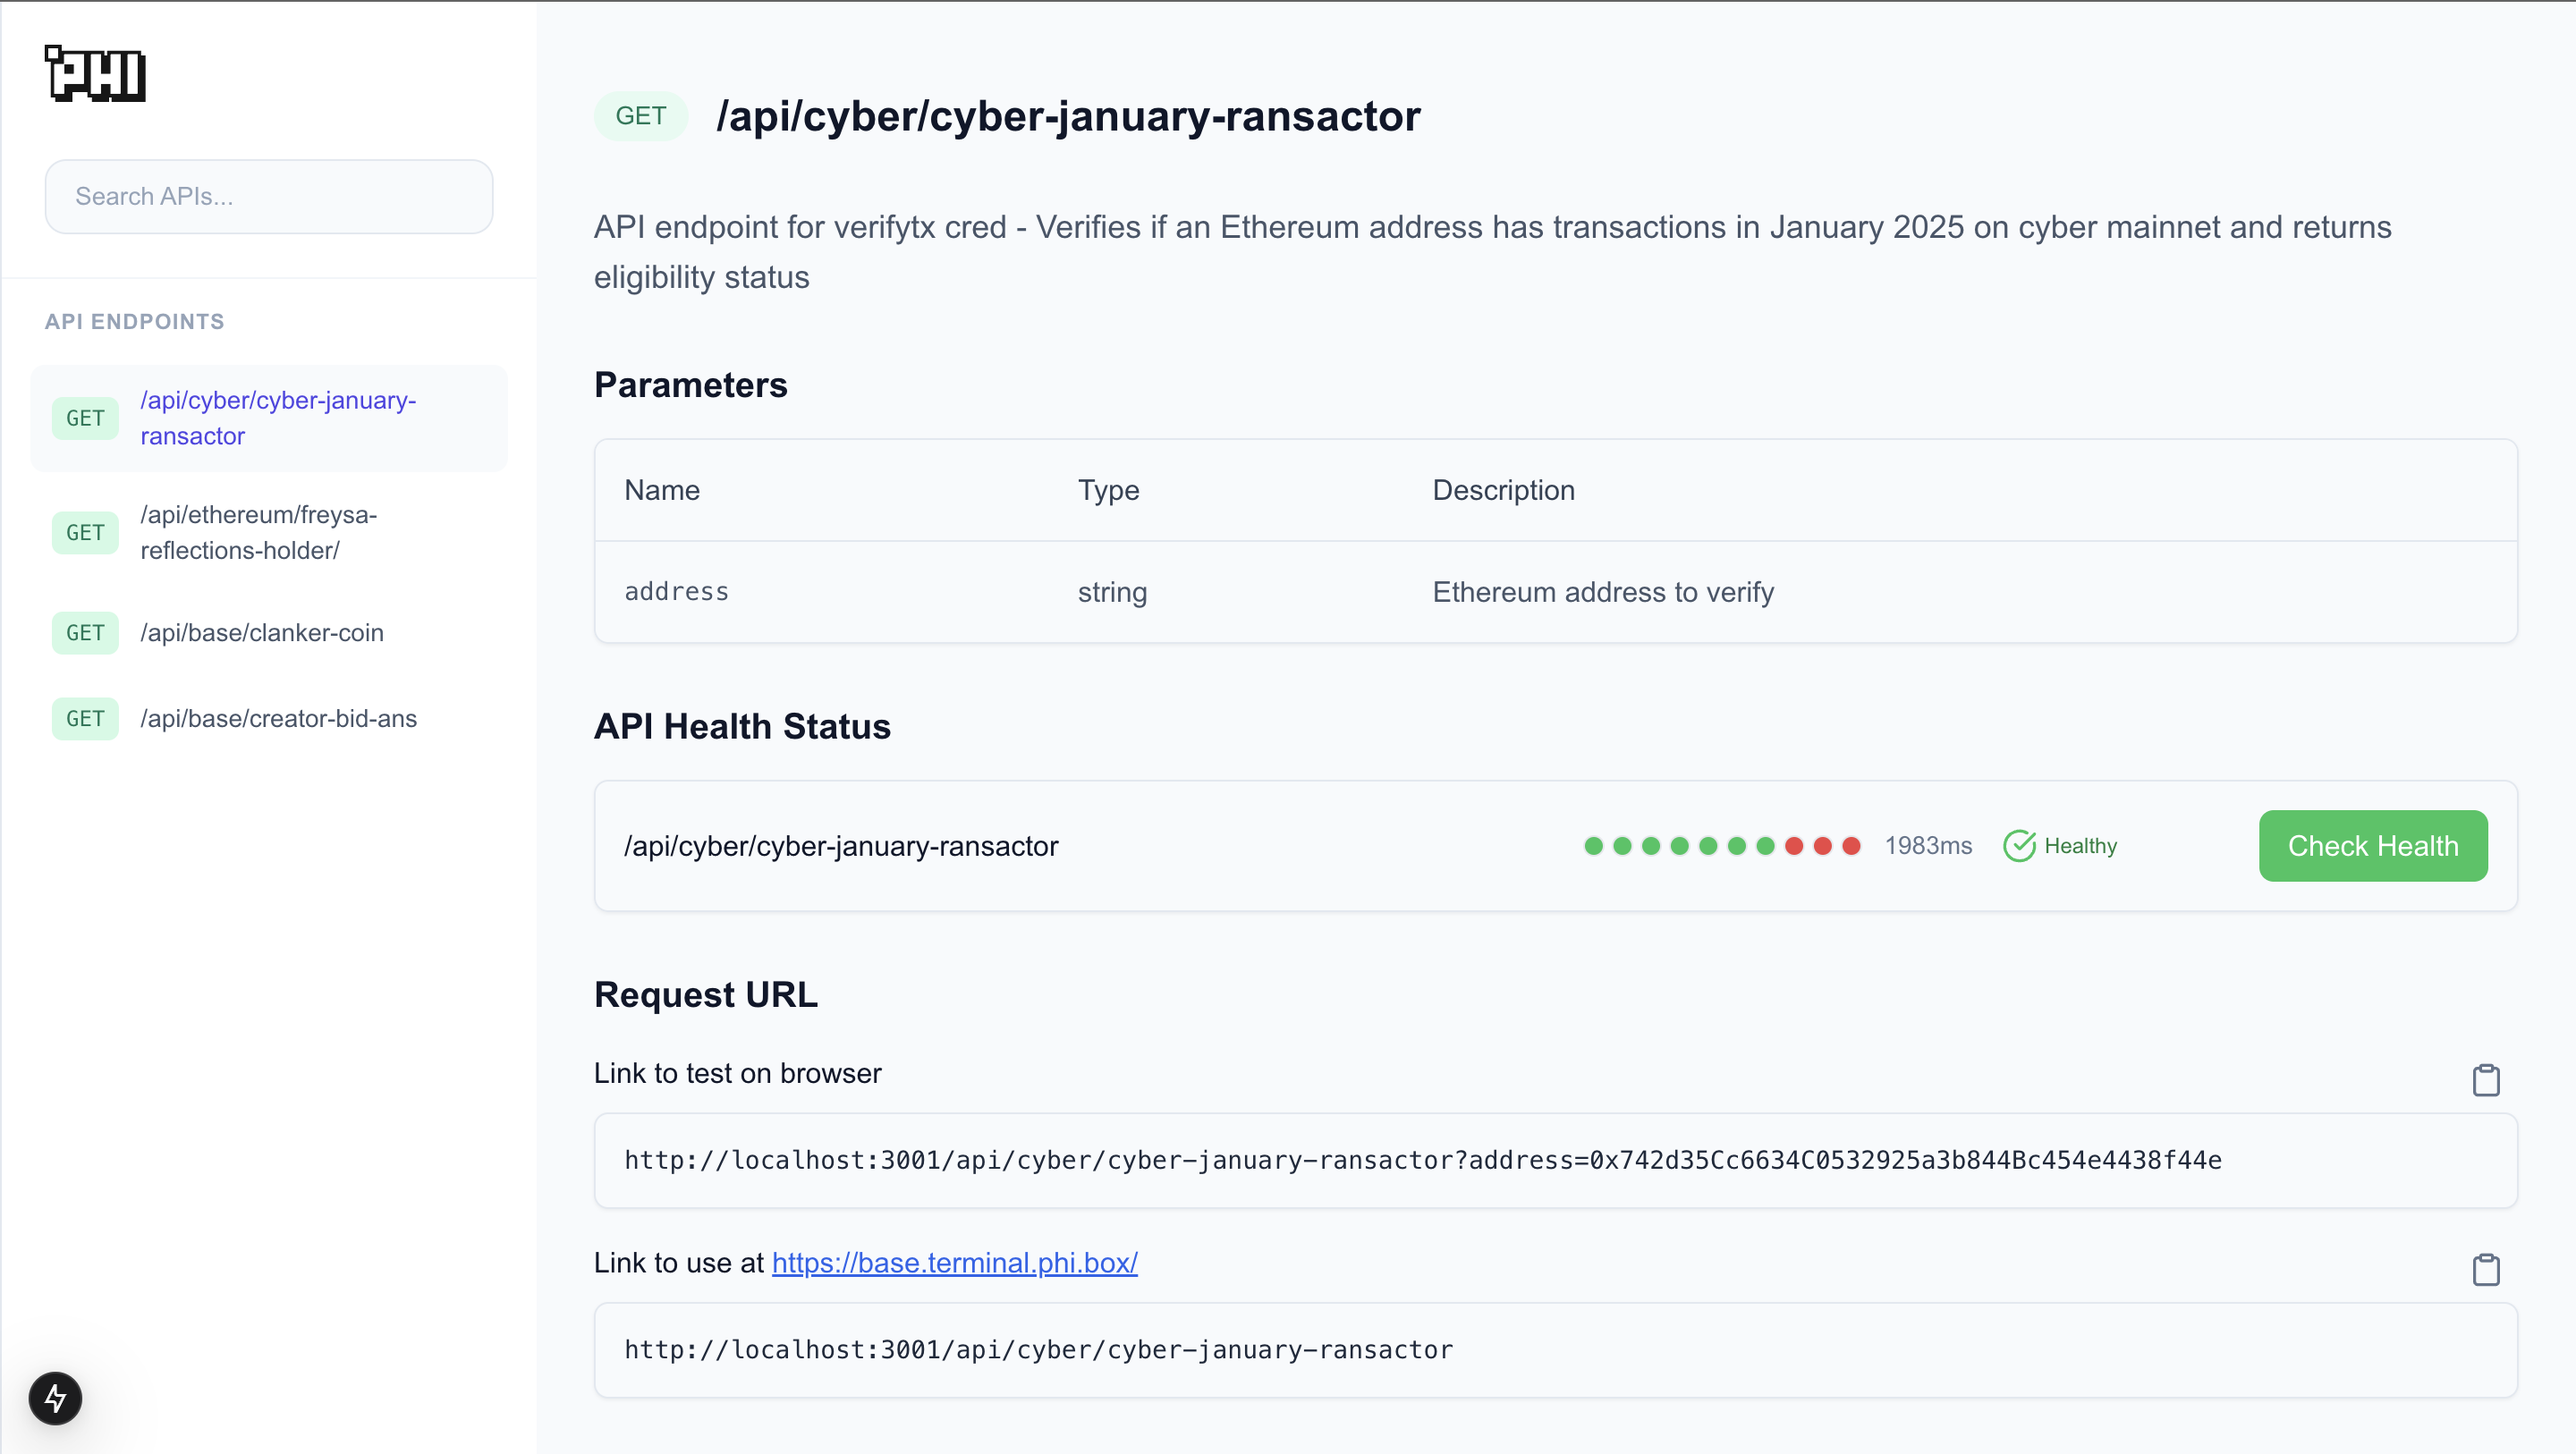
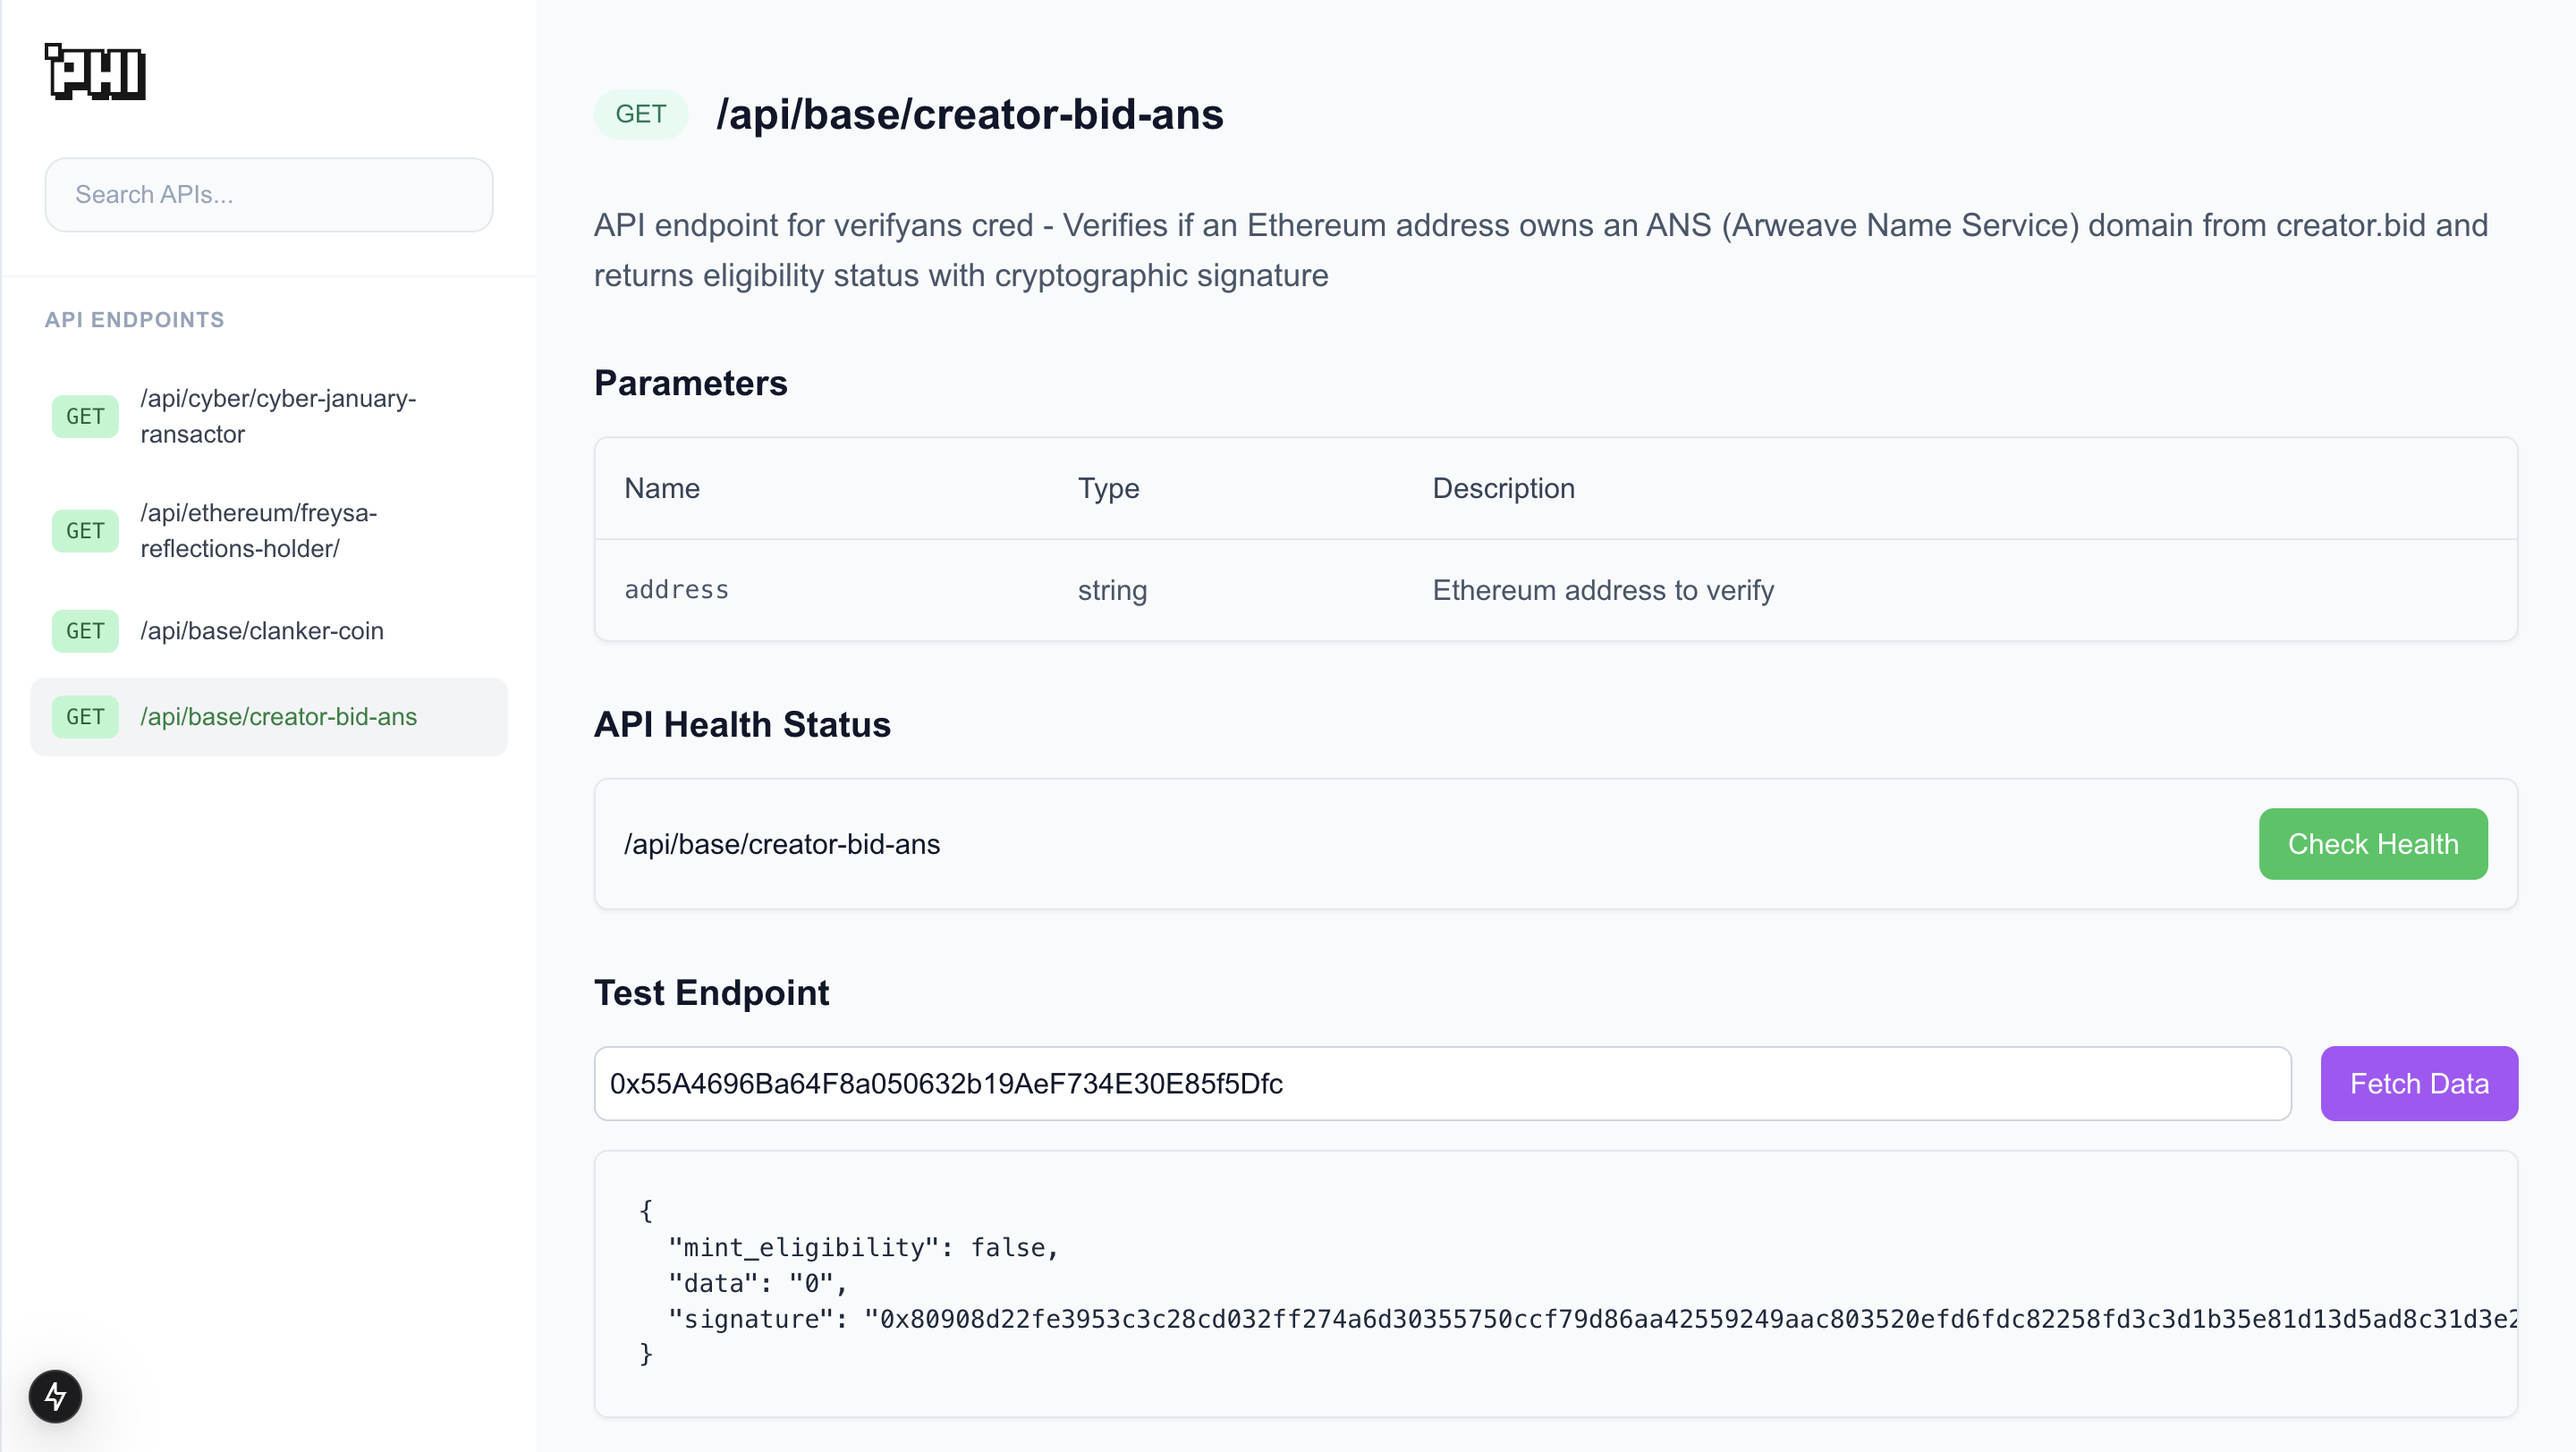
feat: add test endpoint

diff --git a/app/components/api/ApiDataFetcher.tsx b/app/components/api/ApiDataFetcher.tsx
@@ -1,0 +1,83 @@
+import { useState, useCallback, useEffect } from "react";
+
+interface ApiDataFetcherProps {
+  path: string;
+}
+
+interface ApiResponse {
+  [key: string]: unknown;
+}
+
+export function ApiDataFetcher({ path }: ApiDataFetcherProps) {
+  const baseUrl = window.location.origin;
+  const [address, setAddress] = useState<string>("");
+  const [data, setData] = useState<ApiResponse | null>(null);
+  const [loading, setLoading] = useState<boolean>(false);
+  const [error, setError] = useState<string | null>(null);
+
+  const fetchData = useCallback(async () => {
+    setLoading(true);
+    setError(null);
+    try {
+      const response = await fetch(`${baseUrl}${path}?address=${address}`);
+      const result: ApiResponse = await response.json();
+      setData(result);
+    } catch {
+      setError("Failed to fetch data");
+    } finally {
+      setLoading(false);
+    }
+  }, [address, baseUrl, path]);
+
+  useEffect(() => {
+    // Reset state when path changes
+    setAddress("");
+    setData(null);
+    setLoading(false);
+    setError(null);
+  }, [path]);
+
+  return (
+    <div className="mb-8">
+      <h3 className="text-xl font-bold mb-4 text-slate-900">Test Endpoint</h3>
+
+      <div className="flex flex-col space-y-4">
+        <div className="flex flex-col sm:flex-row justify-between space-y-4 sm:space-y-0 sm:space-x-4">
+          <input
+            type="text"
+            value={address}
+            onChange={(e) => setAddress(e.target.value)}
+            placeholder="Enter wallet address"
+            className="flex-1 border border-slate-300 rounded-lg p-2 text-slate-900 focus:outline-none "
+          />
+          <button
+            onClick={fetchData}
+            className="px-4 py-2 w-full sm:w-auto bg-purple-500 text-white rounded-lg hover:bg-purple-600 transition duration-300"
+          >
+            Fetch Data
+          </button>
+        </div>
+
+        <div className="mt-4">
+          {loading ? (
+            <div className="bg-slate-50 rounded-lg p-6 border border-slate-200 shadow-sm overflow-auto">
+              <div className="animate-pulse space-y-4">
+                <div className="h-4 bg-slate-200 rounded"></div>
+                <div className="h-4 bg-slate-200 rounded"></div>
+                <div className="h-4 bg-slate-200 rounded"></div>
+              </div>
+            </div>
+          ) : error ? (
+            <p className="text-red-500">{error}</p>
+          ) : data ? (
+            <div className="bg-slate-50 rounded-lg p-6 border border-slate-200 shadow-sm overflow-auto">
+              <pre className="text-sm text-slate-800 break-words">
+                <code>{JSON.stringify(data, null, 2)}</code>
+              </pre>
+            </div>
+          ) : null}
+        </div>
+      </div>
+    </div>
+  );
+}

diff --git a/app/components/common/EndpointLink.tsx b/app/components/common/EndpointLink.tsx
@@ -22,18 +22,18 @@ export default function EndpointLink({ endpoint }: EndpointLinkProps) {
                    transition-colors group text-left
                    ${
                      activeEndpoint === endpoint.id
-                       ? "bg-slate-50"
-                       : "hover:bg-slate-50"
+                       ? "bg-gray-100"
+                       : "hover:bg-gray-100"
                    }`}
       >
         <span
           className={`font-mono text-xs font-medium px-2 py-1 rounded-md
                     ${
                       endpoint.method === "GET"
-                        ? "bg-emerald-100 text-emerald-700"
+                        ? "bg-green-200 text-green-800"
                         : endpoint.method === "POST"
-                        ? "bg-blue-100 text-blue-700"
-                        : "bg-slate-100 text-slate-700"
+                        ? "bg-blue-200 text-blue-800"
+                        : "bg-gray-200 text-gray-800"
                     }`}
         >
           {endpoint.method}
@@ -42,8 +42,8 @@ export default function EndpointLink({ endpoint }: EndpointLinkProps) {
           className={`text-sm transition-colors
                        ${
                          activeEndpoint === endpoint.id
-                           ? "text-indigo-600"
-                           : "text-slate-600 group-hover:text-indigo-600"
+                           ? "text-green-700"
+                           : "text-gray-700 group-hover:text-green-700"
                        }`}
         >
           {endpoint.path}

diff --git a/app/components/api/EndpointSection.tsx b/app/components/api/EndpointSection.tsx
@@ -1,3 +1,4 @@
+import { ApiDataFetcher } from "./ApiDataFetcher";
 import { ApiHealthStatus } from "./ApiHealthStatus";
 import ParametersTable from "./ParametersTable";
 import RequestExample from "./RequestExample";
@@ -45,6 +46,7 @@ export default function EndpointSection({
       <div>
         <ParametersTable parameters={parameters} />
         <ApiHealthStatus path={path} />
+        <ApiDataFetcher path={path} />
         <RequestExample path={path} />
         <ResponseExample />
       </div>

diff --git a/app/components/api/RequestExample.tsx b/app/components/api/RequestExample.tsx
@@ -73,7 +73,7 @@ export default function RequestExample({ path }: RequestExampleProps) {
             </button>
           </div>
           <div className="bg-slate-50 rounded-lg p-4 border border-slate-200 shadow-sm overflow-auto">
-            <pre className="text-sm text-slate-800 whitespace-pre-wrap break-words">
+            <pre className="text-sm text-slate-800 break-words">
               <code>{command}</code>
             </pre>
           </div>
